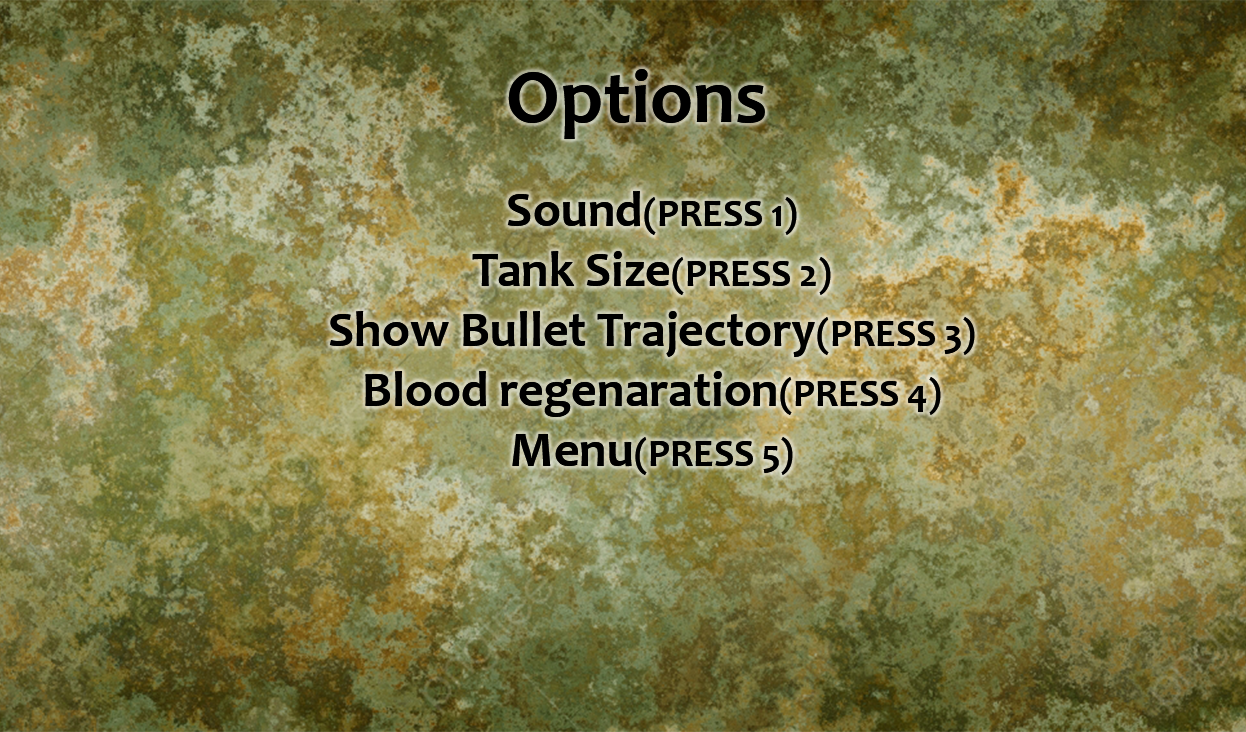
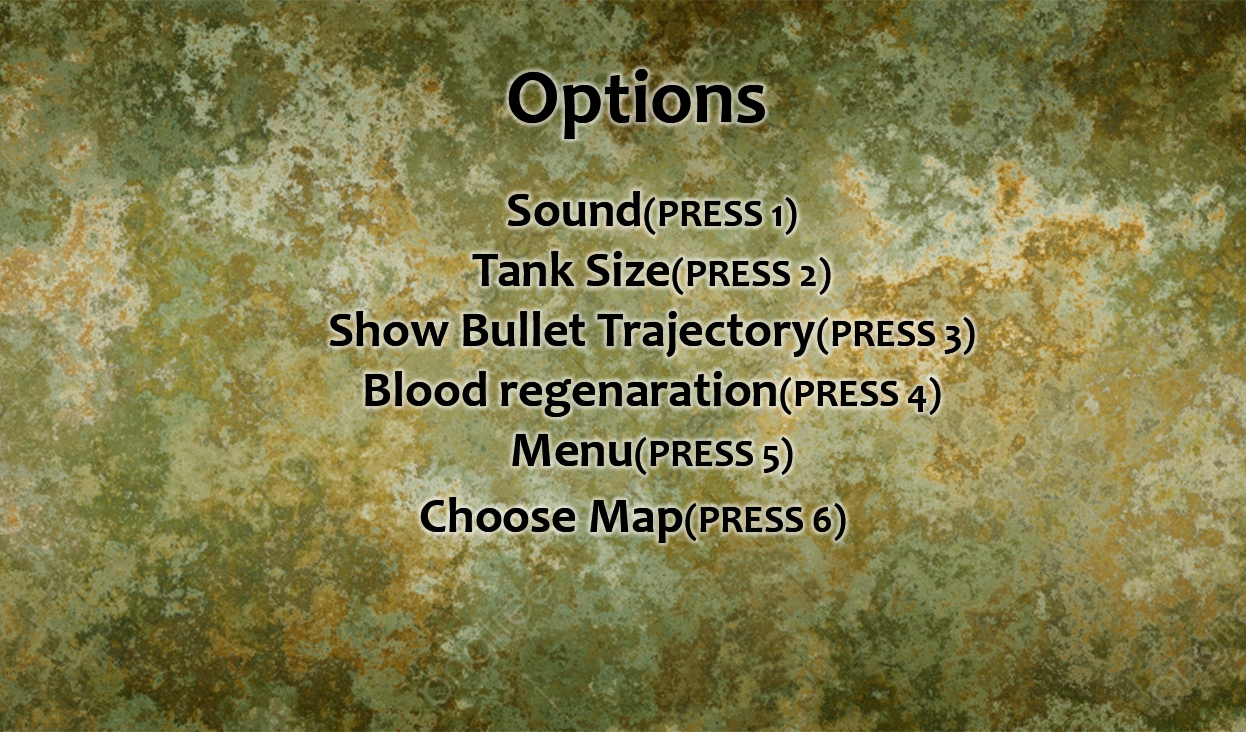
finallize menu

Changed region(s): [[0.3355, 0.6612, 0.7014, 0.7514]]

diff --git a/SDL/Menu.cpp b/SDL/Menu.cpp
@@ -14,10 +14,14 @@ enum KeyPressMenuSurfaces
 	KEY_Sound_Without_Option,
 	KEY_Tank_Size,
 	KEY_Show_Bullet_Trajectory,
-	KEY_Blood_Regenaration,
 	KEY_Menu,
 	KEY_Yes_No,
-	KEY_Check_Show_Bullet
+	KEY_Check_Show_Bullet,
+	KEY_Map1,
+	KEY_Map2,
+	KEY_Map3,
+	KEY_Blood_YN,
+	KEY_Choose_Map
 };
 
 SDL_Event Menu::event;
@@ -25,9 +29,9 @@ SDL_Surface* Menu::screenSurface = NULL;
 SDL_Surface* Menu::PNGSurface = NULL;
 SDL_Window* Menu::window = NULL;
 SDL_Renderer* Menu::renderer = NULL;
-SDL_Surface* MenuSurface[11];
-SDL_Surface* OptionSurface[11];
-SDL_Surface* SoundSurface[11];
+SDL_Surface* MenuSurface[20];
+SDL_Surface* OptionSurface[20];
+SDL_Surface* SoundSurface[20];
 Mix_Music* Menu::sound = NULL; // tắt'
 bool Menu::needToChangeTankSize = true;
 int Menu::newTankWidth = 32;
@@ -161,12 +165,6 @@ bool Menu::handleOptionsMedia()
 		std::cout << "Failed to load TankSize image" << std::endl;
 		success = false;
 	}
-	OptionSurface[KEY_Blood_Regenaration] = loadSurface("assets/BloodRegenaration.png");
-	if (!OptionSurface[KEY_Blood_Regenaration])
-	{
-		std::cout << "Failed to load BloodRegenaration image" << std::endl;
-		success = false;
-	}
 	OptionSurface[KEY_Show_Bullet_Trajectory] = loadSurface("assets/checkShowBullet.png");
 	if (!OptionSurface[KEY_Show_Bullet_Trajectory])
 	{
@@ -183,6 +181,36 @@ bool Menu::handleOptionsMedia()
 	if (!OptionSurface[KEY_Yes_No])
 	{
 		std::cout << "Failed to load YESorNO.png" << std::endl;
+		success = false;
+	}
+	OptionSurface[KEY_Map1] = loadSurface("assets/Map1.png");
+	if (!OptionSurface[KEY_Map1])
+	{
+		std::cout << "Failed to load Map1.png" << std::endl;
+		success = false;
+	}
+	OptionSurface[KEY_Map2] = loadSurface("assets/Map2.png");
+	if (!OptionSurface[KEY_Map2])
+	{
+		std::cout << "Failed to load Map2.png" << std::endl;
+		success = false;
+	}
+	OptionSurface[KEY_Map3] = loadSurface("assets/Map3.png");
+	if (!OptionSurface[KEY_Map3])
+	{
+		std::cout << "Failed to load Map3.png" << std::endl;
+		success = false;
+	}
+	OptionSurface[KEY_Blood_YN] = loadSurface("assets/Blood_YN.png");
+	if (!OptionSurface[KEY_Blood_YN])
+	{
+		std::cout << "Failed to loadBlood_YN.png" << std::endl;
+		success = false;
+	}
+	OptionSurface[KEY_Choose_Map] = loadSurface("assets/chooseMap.png");
+	if (!OptionSurface[KEY_Choose_Map])
+	{
+		std::cout << "Failed to load chooseMap.png" << std::endl;
 		success = false;
 	}
 	return success;
@@ -304,8 +332,8 @@ void Menu::handleOptionsEvent()
 					PNGSurface = MenuSurface[KEY_Option];
 					break;
 				case SDLK_4:
-					PNGSurface = OptionSurface[KEY_Blood_Regenaration];
-					//handleBloodRegenaration();
+				
+					handleBloodEvent();
 					break;
 
 				case SDLK_5:
@@ -324,7 +352,7 @@ void Menu::handleOptionsEvent()
 void Menu::chooseMap()
 {
 	std::cout << "went into showbullet func" << std::endl;
-	//PNGSurface = OptionSurface[KEY_Show_Bullet_Trajectory];
+	PNGSurface = OptionSurface[KEY_Choose_Map];
 	bool quit = false;
 	while (!quit) {
 		while (SDL_PollEvent(&Menu::event) != 0)
@@ -339,12 +367,28 @@ void Menu::chooseMap()
 				{
 				case SDLK_1:
 					Game::mapPath = "map.map";
+					PNGSurface = OptionSurface[KEY_Map1];
+					Menu::renderMenu();
+					SDL_Delay(3000);
+					chooseMap();
 					return;
 				case SDLK_2:
 					Game::mapPath = "map2.map";
+					PNGSurface = OptionSurface[KEY_Map2];
+					Menu::renderMenu();
+					SDL_Delay(3000);
+					chooseMap();
 					return;
 				case SDLK_3:
 					Game::mapPath = "map3.map";
+					PNGSurface = OptionSurface[KEY_Map3];
+					Menu::renderMenu();
+					SDL_Delay(3000);
+					chooseMap();
+					return;
+				case SDLK_4:
+
+					Menu::handleOptionsEvent();
 					return;
 				}
 			}
@@ -481,6 +525,38 @@ void Menu::handleTankSizeEvent()
 			}
 		}
 		GetScale = scale;
+		Menu::renderMenu();
+	}
+}
+
+void Menu::handleBloodEvent()
+{
+	PNGSurface = OptionSurface[KEY_Blood_YN];
+	bool quit = false;
+	while (!quit)
+	{
+		while (SDL_PollEvent(&Menu::event) != 0)
+		{
+			if (Menu::event.type == SDL_QUIT)
+			{
+				quit = true;
+			}
+			else if (Menu::event.type == SDL_KEYDOWN)
+			{
+				switch (event.key.keysym.sym)
+				{
+				case SDLK_1:
+					healingOrNot = true;
+					handleOptionsEvent();
+					return;
+				case SDLK_2:
+					healingOrNot = false;
+					handleOptionsEvent();
+					return;
+				}
+				std::cout << "still running" << std::endl;
+			}
+		}
 		Menu::renderMenu();
 	}
 }

diff --git a/SDL/Menu.h b/SDL/Menu.h
@@ -30,6 +30,7 @@ public:
 	static void handleSoundEvent();
 	static void handleMenuEvent();
 	static void handleTankSizeEvent();
+	static void handleBloodEvent();
 	static void handleShowBullet();
 	static void chooseMap();
 	static void renderMenu();

diff --git a/SDL/Game.h b/SDL/Game.h
@@ -27,7 +27,7 @@ public:
 	static SDL_Event event;
 
 	bool isRunning;
-
+	
 	enum groupLabels : std::size_t
 	{
 		groupMap,
